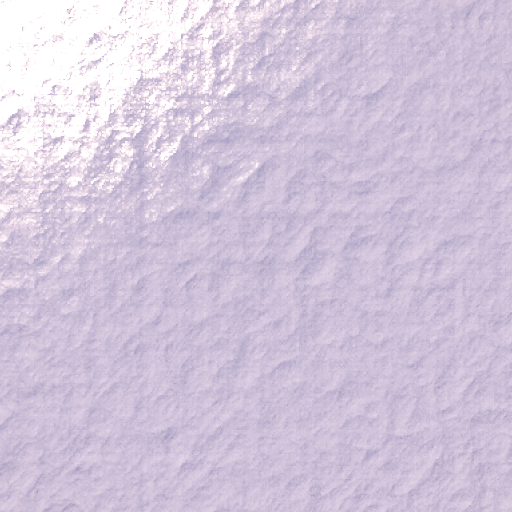
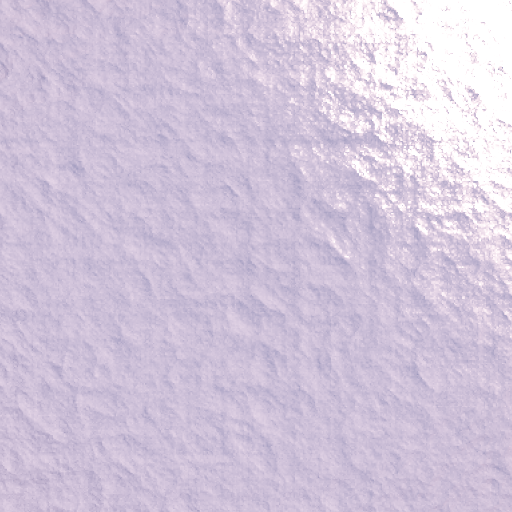
11

diff --git a/scene.js b/scene.js
@@ -8,11 +8,12 @@ function drawPlace(){
   mat4.identity( app.mvMatrix )
   // camera position and rotations
   mat4.rotate( app.mvMatrix, degToRad( app.camera.pitch ), [1,0,0] );
+  
   // account for pitch rotation and light down vector
   app.lightVector.splice(0,app.lightVector.length);
   var CurlightVector = new Array();
   var lightVector = vec3.create();
-  for(var i=0;i<app.lightLocationStatic.length/3;++i)
+  for(var i=0;i<app.lightVectorStatic.length/3;++i)
   {
     CurlightVector[0] = app.lightVectorStatic[3*i];
     CurlightVector[1] = app.lightVectorStatic[3*i+1];
@@ -22,11 +23,11 @@ function drawPlace(){
     app.lightVector[3*i+1] = lightVector[1];
     app.lightVector[3*i+2] = lightVector[2];
   }
+  /** */
   mat4.rotate( app.mvMatrix, degToRad( app.camera.heading ), [0,1,0] );
   mat4.translate( app.mvMatrix, app.camera.inversePosition );
   
   gl.useProgram( shaderProgram );
- 
   // To add multiple lights append to and of array of light locations
 
   var CurlightLocation = new Array();
@@ -48,14 +49,18 @@ function drawPlace(){
     //app.lightLocation =app.lightLocation.concat(lightLocation);
     //app.lightVector =app.lightVector.concat(lightVector);
   }
-
+ 
    //mat4.multiplyVec3( app.mvMatrix, app.lightVectorStatic, app.lightVector );
   //mat4.multiplyVec3( app.mvMatrix, app.lightLocationStatic, app.lightLocation );
-  gl.uniform3fv( shaderProgram.lightLocation,app.lightLocation);// app.lightLocationStatic 
-  gl.uniform3fv( shaderProgram.lightVector,app.lightVector );// app.lightVectorStatic
+  app.lightSourceIntensity[1] = 15*app.intensity;
+  app.lightSourceIntensity[2] = 15*(1-app.intensity);
+  app.lightSourceIntensity[3] = 15*app.intensity;
+  app.lightSourceIntensity[4] = 15*(1-app.intensity);
+  gl.uniform3fv( shaderProgram.lightLocation,app.lightLocation);//  app.lightLocationStatic
+  gl.uniform3fv( shaderProgram.lightVector,app.lightVector);// app.lightVectorStatic 
   gl.uniform1fv( shaderProgram.lightIntensity, app.lightSourceIntensity);
   gl.uniform1i( shaderProgram.lightCount, app.Lightcount);
-  gl.uniform1f( shaderProgram.lightcone, 0.5);//90 degree
+  gl.uniform1f( shaderProgram.lightcone, 0.707);//90 degree
   
   setUniforms();
 
@@ -97,9 +102,10 @@ function drawPlace(){
             mat4.scale( app.mvMatrix, [app.xwidth / 2, app.spectrum[i] * 2, app.zwidth] )       
             mat4.translate( app.mvMatrix,  [0 - i * 1.3, 0 + 1, 0] );
 
-            drawObject( app.models.cube, 0, [1, 1, 1, 1] );         
-            
-            // drawObject( app.models.cube, 0,  [.3, .3, .3, 1]);         
+            drawObject( app.models.cube, 0,  [1.0, 1.0, 1.0, 1]);
+            //drawObject( app.models.cube, 0,[app.spectrumR[i],app.spectrumG[i],app.spectrumB[i],app.spectrumA[i]] ); //[1, 1, 1, 1]        
+            //console.log("app.spectrumR[i] is:",app.spectrumR[i]);
+                     
             // Original color:
             // [(255-i)/255, 0, (255 - (255 - i)) / 255, 1]  
           

diff --git a/initialize.js b/initialize.js
@@ -1,9 +1,9 @@
 var redValue = 0.0;
 var greenValue = 0.0;
 var blueValue = 1.0;
-var PointredValue = 1.0;
-var PointblueValue = 0.0;
-var PointgreenValue = 1.0;
+// var PointredValue = 1.0;
+// var PointblueValue = 0.0;
+// var PointgreenValue = 1.0;
 
 var alpha = 1.0;
 /** ----------for back ground-----------*/
@@ -231,9 +231,33 @@ function initAudio()
             //console.log("frequencyBins is:",value);
             // w = WIDTH / frequencyBins.length;
                 // ctx.fillStyle = `rgb(${Math.random() * w},${Math.random() * h},${Math.random() * w})`;
+            app.spectrumR[i]=redValue;
+            app.spectrumG[i]=greenValue;
+            app.spectrumB[i]=blueValue;
+            app.spectrumA[i]=alpha;
             arr[i++]=h;
-
+            if (i< frequencyBins.length/2) //128
+            {
+              redValue=redValue+0.01;
+              if(redValue == 1)redValue=0.0;
+              greenValue = greenValue + 0.015;
+              if(greenValue == 1)greenValue=0.0;
+              blueValue=blueValue-0.04;
+              if(blueValue == 0.0)blueValue=1.0;
+            }else
+            {
+              redValue=redValue-0.01;
+              if(redValue == 0)redValue=1.0;
+              greenValue = greenValue -0.015;
+              if(greenValue == 0)greenValue=1.0;
+              blueValue=blueValue+0.04;
+              if(blueValue == 1)blueValue=0.0;
+            }
+            alpha-=0.01;
+            if(alpha < 0 )
+              alpha=1.0;
         }
+         
     }
     function animate() 
     // Generates an RMS value based on intensity
@@ -249,8 +273,9 @@ function initAudio()
             rms += dataArray[i] * dataArray[i];
         }
         rms = Math.sqrt(rms / (dataArray.length));
-        
+        //console.log("rms is:",rms);
         app.intensity = rms;
+
         // This will return the value in decibals.
         // var v = Math.abs(20 * Math.log10(rms));
         draw();

diff --git a/globals.js b/globals.js
@@ -56,25 +56,25 @@ var app = {};
   app.lightSourceIntensity = new Array();
   /**----------------here to add light sources -------------------*/
   app.Lightcount=5;
-  app.lightLocationStatic.push(0, 45, 0);
+  app.lightLocationStatic.push(0, 25, 0);
   app.lightVectorStatic.push(0, -1, 0);
-  app.lightSourceIntensity.push(10.0);
+  app.lightSourceIntensity.push(2.0);
 
-  app.lightLocationStatic.push(-45, 45,45 );
-  app.lightVectorStatic.push(1, -1,-1 );
-  app.lightSourceIntensity.push(10.0);
+  app.lightLocationStatic.push(-30, 15,30 );
+  app.lightVectorStatic.push(1, -0.75,-1 );//1
+  app.lightSourceIntensity.push(5.0);
 
-  app.lightLocationStatic.push(45, 45,45 );
-  app.lightVectorStatic.push(-1, -1,-1 );
-  app.lightSourceIntensity.push(10.0);
+  app.lightLocationStatic.push(30, 15,30 );
+  app.lightVectorStatic.push(-1, -0.75,-1 );
+  app.lightSourceIntensity.push(5.0);
 
-  app.lightLocationStatic.push(45, 45,-45 );
-  app.lightVectorStatic.push(-1, -1,1 );
-  app.lightSourceIntensity.push(10.0);
+  app.lightLocationStatic.push(30, 15,-30 );
+  app.lightVectorStatic.push(-1, -0.75,1 );
+  app.lightSourceIntensity.push(5.0);
 
-  app.lightLocationStatic.push(45, 45,-45 );
-  app.lightVectorStatic.push(-1, -1,1 );
-  app.lightSourceIntensity.push(10.0);
+  app.lightLocationStatic.push(-30, 15,-30 );
+  app.lightVectorStatic.push(1, -0.75,1 );
+  app.lightSourceIntensity.push(5.0);
 
   // app.lightLocationStatic = [0, 45, 0];
   // app.lightVectorStatic = [0, -1, 0];
@@ -104,6 +104,10 @@ var app = {};
   app.monkey.position = [0,0,0]
   app.intensity = 0;
   app.spectrum = [];
+  app.spectrumR=[];
+  app.spectrumG=[];
+  app.spectrumB=[];
+  app.spectrumA=[];
   app.point = [];
   app.wave = [];
   
